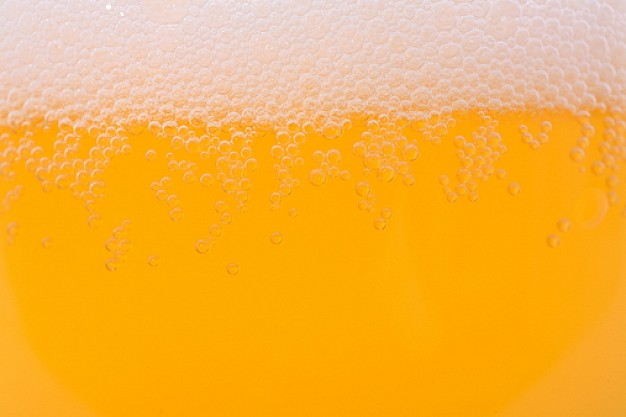
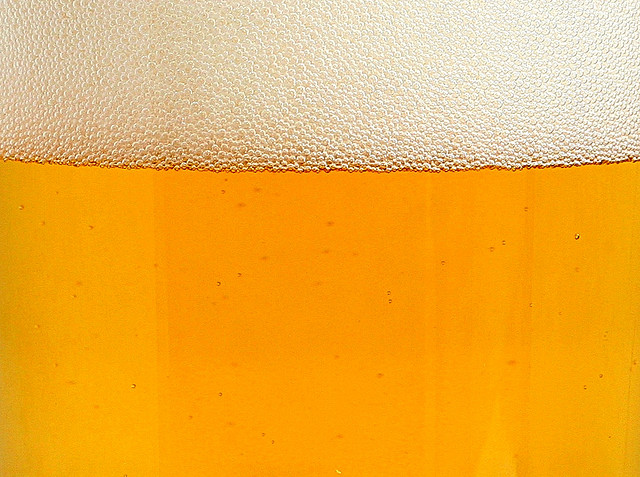
tlo

diff --git a/app/assets/stylesheets/scaffolds.css.scss b/app/assets/stylesheets/scaffolds.css.scss
@@ -1,5 +1,5 @@
 body {
-  background: rgb(253,195,51) image-url("jasneprawo.jpg") no-repeat 50% 0 fixed;
+  background: rgb(253,195,51) image-url("kufle.jpg") no-repeat 50% 0 fixed;
   background-size: cover;
   color: #333;
   font-family: verdana, arial, helvetica, sans-serif;

diff --git a/db/schema.rb b/db/schema.rb
@@ -13,6 +13,9 @@
 
 ActiveRecord::Schema.define(version: 20140516151728) do
 
+  # These are extensions that must be enabled in order to support this database
+  enable_extension "plpgsql"
+
   create_table "beers", force: true do |t|
     t.string   "name"
     t.integer  "brand_id"
@@ -24,7 +27,7 @@ ActiveRecord::Schema.define(version: 20140516151728) do
     t.datetime "image_updated_at"
   end
 
-  add_index "beers", ["brand_id"], name: "index_beers_on_brand_id"
+  add_index "beers", ["brand_id"], name: "index_beers_on_brand_id", using: :btree
 
   create_table "brands", force: true do |t|
     t.string   "name"
@@ -47,8 +50,8 @@ ActiveRecord::Schema.define(version: 20140516151728) do
     t.datetime "updated_at"
   end
 
-  add_index "questionnaires", ["education_id"], name: "index_questionnaires_on_education_id"
-  add_index "questionnaires", ["sex_id"], name: "index_questionnaires_on_sex_id"
+  add_index "questionnaires", ["education_id"], name: "index_questionnaires_on_education_id", using: :btree
+  add_index "questionnaires", ["sex_id"], name: "index_questionnaires_on_sex_id", using: :btree
 
   create_table "ratings", force: true do |t|
     t.integer  "beer_id"
@@ -62,8 +65,8 @@ ActiveRecord::Schema.define(version: 20140516151728) do
     t.datetime "updated_at"
   end
 
-  add_index "ratings", ["beer_id"], name: "index_ratings_on_beer_id"
-  add_index "ratings", ["questionnaire_id"], name: "index_ratings_on_questionnaire_id"
+  add_index "ratings", ["beer_id"], name: "index_ratings_on_beer_id", using: :btree
+  add_index "ratings", ["questionnaire_id"], name: "index_ratings_on_questionnaire_id", using: :btree
 
   create_table "sexes", force: true do |t|
     t.datetime "created_at"
@@ -86,7 +89,7 @@ ActiveRecord::Schema.define(version: 20140516151728) do
     t.datetime "updated_at"
   end
 
-  add_index "users", ["email"], name: "index_users_on_email", unique: true
-  add_index "users", ["reset_password_token"], name: "index_users_on_reset_password_token", unique: true
+  add_index "users", ["email"], name: "index_users_on_email", unique: true, using: :btree
+  add_index "users", ["reset_password_token"], name: "index_users_on_reset_password_token", unique: true, using: :btree
 
 end
